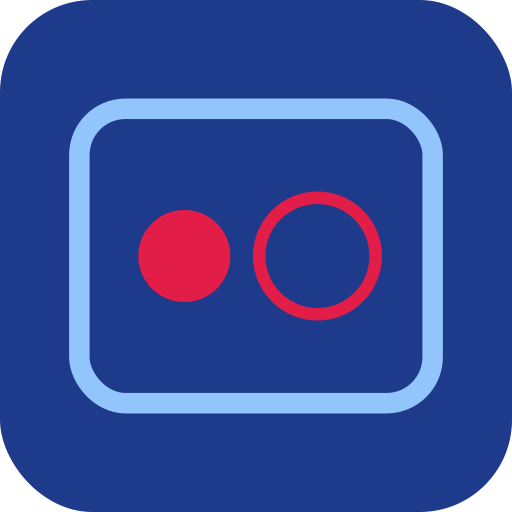
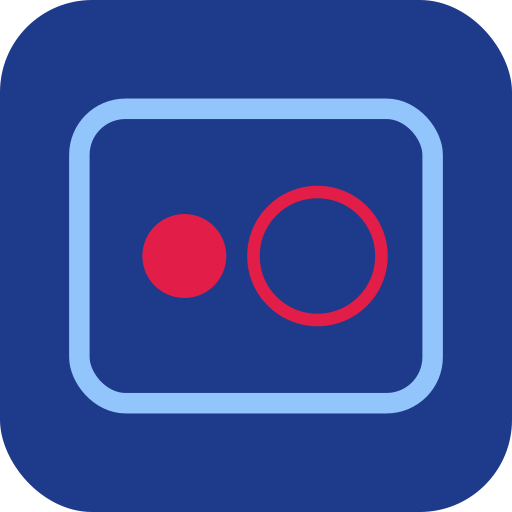
bpm-v62: right hollow eye ~9% bigger, left solid eye ~9% smaller

diff --git a/index.html b/index.html
@@ -1,7 +1,7 @@
 <!doctype html><html lang="en"><head><meta charset="utf-8">
 <meta name="viewport" content="width=device-width,initial-scale=1,maximum-scale=1,user-scalable=no">
 <title>Marker</title><meta name="apple-mobile-web-app-title" content="Marker"><meta name="application-name" content="Marker"><link rel="manifest" href="manifest.json"><meta name="theme-color" content="#1e293b">
-<link rel="icon" href="icon.svg"><link rel="apple-touch-icon" href="icon-192.png"><link rel="stylesheet" href="app.css"></head><body><div id="splash" style="position:fixed;inset:0;z-index:99999;background:#0f172a;display:flex;align-items:center;justify-content:center;transition:opacity .4s;transform:none"><svg width="240" height="240" style="display:block;width:240px;height:240px;flex:none" xmlns="http://www.w3.org/2000/svg" viewBox="0 0 100 100"><rect width="100" height="100" rx="32" fill="#1e3a8a"/><rect x="15.5" y="21.25" width="69" height="57.5" rx="9" fill="none" stroke="#93c5fd" stroke-width="4"/><circle cx="62" cy="50" r="11.375" fill="none" stroke="#e11d48" stroke-width="2.45"/><circle cx="36" cy="50" r="9" fill="#e11d48"/></svg>
+<link rel="icon" href="icon.svg"><link rel="apple-touch-icon" href="icon-192.png"><link rel="stylesheet" href="app.css"></head><body><div id="splash" style="position:fixed;inset:0;z-index:99999;background:#0f172a;display:flex;align-items:center;justify-content:center;transition:opacity .4s;transform:none"><svg width="240" height="240" style="display:block;width:240px;height:240px;flex:none" xmlns="http://www.w3.org/2000/svg" viewBox="0 0 100 100"><rect width="100" height="100" rx="32" fill="#1e3a8a"/><rect x="15.5" y="21.25" width="69" height="57.5" rx="9" fill="none" stroke="#93c5fd" stroke-width="4"/><circle cx="62" cy="50" r="12.5" fill="none" stroke="#e11d48" stroke-width="2.45"/><circle cx="36" cy="50" r="8.2" fill="#e11d48"/></svg>
 </div>
 <div id="proj"><span title="Project">🗂</span><select id="projSel" title="Project"></select><button class="btn" id="projNew" title="New project">＋</button><button class="btn" id="projRen" title="Rename project">✎</button><button class="btn" id="projDel" title="Delete project">🗑</button><button class="btn" id="projSave" title="Save project file (.bpm) / export plans">💾<span class="lbl"> Save</span></button><label class="btn" id="projOpen" title="Open project file (.bpm)">📥<span class="lbl"> Open</span><input id="bpmFile" type="file" accept=".bpm,application/zip,application/octet-stream" hidden></label></div>
 <header id="top">

diff --git a/app.js b/app.js
@@ -753,7 +753,7 @@ async function unzipBlob(b){const T=Math.max(0,b.size-65557),tail=new DataView(a
   if(meth===8)blob=await new Response(blob.stream().pipeThrough(new DecompressionStream('deflate-raw'))).blob();else if(meth!==0)throw new Error('unsupported compression in '+name);out.set(name,{blob,crc})}return out}
 const fsafe=s=>String(s||'project').replace(/[\\/:*?"<>|]+/g,'_').trim()||'project';
 async function buildBpm(pid,withLearned,onP){const pr=await get('projects',pid),pls=(await all('plans')).filter(p=>p.projectId===pid).sort((a,b)=>a.added-b.added),files=[];
- const man={format:BPM_FMT,version:BPM_VER,app:'bpm-v61',saved:new Date().toISOString(),project:pr,plans:[],markups:[],pins:[],media:[],layers:{},meta:{},learned:null,mycodes:null};
+ const man={format:BPM_FMT,version:BPM_VER,app:'bpm-v62',saved:new Date().toISOString(),project:pr,plans:[],markups:[],pins:[],media:[],layers:{},meta:{},learned:null,mycodes:null};
  for(const pl of pls){const{blob,...m}=pl,f=`plans/${pl.id}.${pl.kind==='pdf'?'pdf':((blob?.type||'').split('/')[1]||'img')}`;if(blob)files.push({name:f,blob});man.plans.push({...m,file:blob?f:null,type:blob?.type||'',size:blob?.size||0});
   man.markups.push(...await byIdx('markups','planId',pl.id));const ps=await byIdx('pins','planId',pl.id);man.pins.push(...ps);
   for(const p of ps)for(const md of await byIdx('media','pinId',p.id)){const{blob:mb,annot,...r}=md,e={...r,file:null};if(mb){e.file=`media/${md.id}`;e.type=mb.type;e.size=mb.size;files.push({name:e.file,blob:mb})}if(annot){e.annotFile=`media/${md.id}-annot`;e.annotType=annot.type;files.push({name:e.annotFile,blob:annot})}man.media.push(e)}

diff --git a/sw.js b/sw.js
@@ -1,6 +1,6 @@
 // bpm-v38: app files are network-first (fresh code whenever online, cache when offline); the big vendor libraries are cache-first.
 // Precache bypasses the HTTP cache (cache:'reload') so an install can't mix old and new files.
-const C='bpm-v61',A=['./','index.html','app.js','app.css','detect.js','codes.json','vendor/pdf-lib.min.js','manifest.json','icon.svg','icon-192.png','icon-512.png','icon-maskable-512.png','vendor/pdf.min.js','vendor/pdf.worker.min.js','vendor/jspdf.umd.min.js'];
+const C='bpm-v62',A=['./','index.html','app.js','app.css','detect.js','codes.json','vendor/pdf-lib.min.js','manifest.json','icon.svg','icon-192.png','icon-512.png','icon-maskable-512.png','vendor/pdf.min.js','vendor/pdf.worker.min.js','vendor/jspdf.umd.min.js'];
 self.addEventListener('install',e=>{e.waitUntil(caches.open(C).then(c=>c.addAll(A.map(u=>new Request(u,{cache:'reload'})))));self.skipWaiting()});
 self.addEventListener('activate',e=>{e.waitUntil(caches.keys().then(k=>Promise.all(k.filter(x=>x!==C).map(x=>caches.delete(x)))).then(()=>self.clients.claim()))});
 self.addEventListener('fetch',e=>{const q=e.request;if(q.method!=='GET'||new URL(q.url).origin!==location.origin)return;
